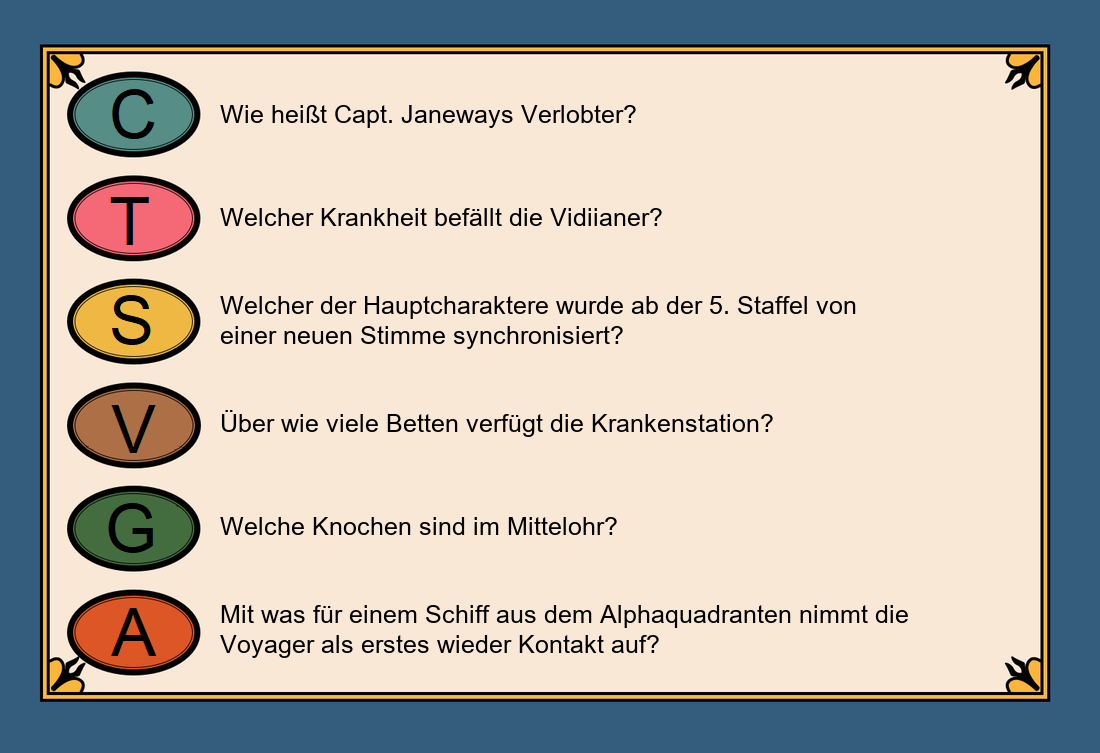
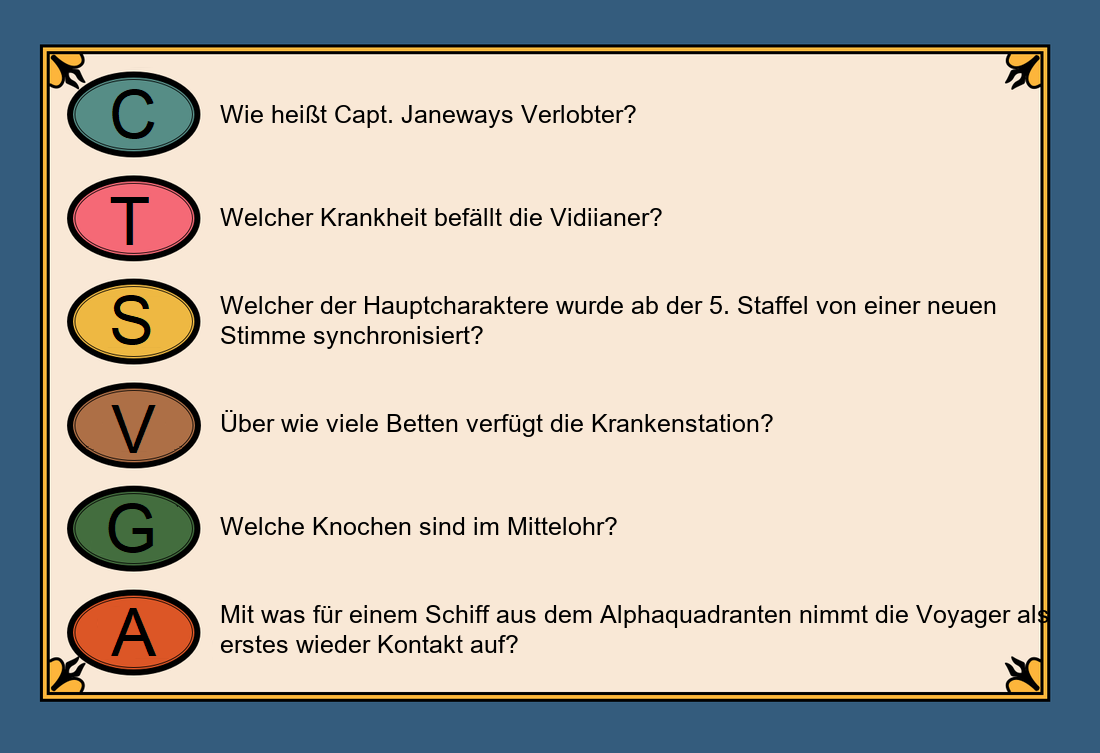
Small corrections, Error handling

diff --git a/database_tools.py b/database_tools.py
@@ -6,6 +6,7 @@
 import sqlite3
 
 import database_statistics
+from constants import QUESTION_MAX_LINE_LENGTH
 
 
 def create_connection(db_file):
@@ -30,8 +31,8 @@ def validate_questions():
             question_id = entry[0]
             question = entry[1]
             any_error = False
-            if len(question) > 120:
-                print "\033[91mError: Question of entry with ID: " + str(question_id) + " is to long! Cards will be ugly! \033[0m" + question
+            if len(question) > 2 * QUESTION_MAX_LINE_LENGTH: #TODO beim Split koennte zweite Zeile laenger als 1 x QUESTION_MAX_LINE_LENGTH werden
+                print "\033[91mError: Question of entry with ID: " + str(question_id) + " is to long! Cards will be ugly! \033[0m" + question + " \033[91mHas length: " + str(len(question)) + "/" + str(2 * QUESTION_MAX_LINE_LENGTH)+"\033[0m" # TODO Variable for max length
                 error_count = error_count + 1
                 any_error = True
             if question[-1] != "?":
@@ -50,7 +51,7 @@ def validate_questions():
         return (warning_count, error_count)
 
 
-def validate_answers():
+def validate_answers(): # TODO  In der Laenge der Antworten das Zitat herausrechnen, bei allen Kategorien ausser T
     print "Validating answer entries..."
     conn = create_connection("python_sqlite.db")
     with conn:
@@ -63,8 +64,8 @@ def validate_answers():
             answer = entry[1]
             answer_cat = entry[2]
             any_error = False
-            if len(answer.split("(")[0]) > 60:
-                print "\033[91mError: Answer of entry with ID: " + str(answer_id) + " is to long! Cards will be ugly! \033[0m" + answer
+            if len(answer.split("(")[0]) > QUESTION_MAX_LINE_LENGTH:
+                print "\033[91mError: Answer of entry with ID: " + str(answer_id) + " is to long! Cards will be ugly! \033[0m" + answer+ " \033[91mHas length: " + str(len(answer)) + "/60\033[0m" # TODO Variable for max length
                 error_count = error_count + 1
                 any_error = True
             if answer_cat != "T" and (

diff --git a/create_cards.py b/create_cards.py
@@ -4,6 +4,8 @@ import shutil
 import sqlite3
 
 from PIL import ImageFont, Image, ImageDraw
+
+from constants import QUESTION_MAX_LINE_LENGTH
 from database_statistics import count_questions, get_categories_from_file
 
 
@@ -68,11 +70,11 @@ def create_cards():
                         question = question_row[
                             1].strip()  # Get question and remove possible whitespace after questionsmark
                         answer = question_row[2]
-                        if len(question) > 60:  # TODO 60 as variable
+                        if len(question) > QUESTION_MAX_LINE_LENGTH:
                             spaces = [m.start() for m in re.finditer(' ', question.strip(" "))]  # Find all spaces
                             print spaces
                             line1_end = max(
-                                [s for s in spaces if s <= 60]) + 1  # Last space which index is less than 60
+                                [s for s in spaces if s <= QUESTION_MAX_LINE_LENGTH]) + 1  # Last space which index is less than 60
                             print line1_end
                             line1 = question[0:line1_end]  # Zeilenumbruch zu machen, ggf sogar 3 Zeilen machen
                             line2 = question[line1_end:len(question)]

diff --git a/trivial_pursuit_creator.py b/trivial_pursuit_creator.py
@@ -11,7 +11,11 @@ raw_input("Press \033[1mENTER\033[0m to start adding new questions from ./questi
           "Already inserted questions will be ignored (The questions text must be unique.)")
 qtb.questions_to_database()
 raw_input("Press \033[1mENTER\033[0m to start validating the database.")
-if dt.validate_questions() == 0 and dt.validate_answers() == 0 and dt.validate_categories() == 0:
+error_count = 0
+error_count += dt.validate_questions()[1]
+error_count += dt.validate_answers()[1]
+error_count += dt.validate_categories()[1]
+if error_count == 0:
     raw_input("Press \033[1mENTER\033[0m to continue and show available statistics on how much cards can be created.")
     dbs.database_statistics()
     raw_input("Press \033[1mENTER\033[0m to create questions cards (front and back) in the ./out folder")
@@ -22,4 +26,5 @@ if dt.validate_questions() == 0 and dt.validate_answers() == 0 and dt.validate_c
     pc.print_cards()
     print "Congratulations. You can find the result in ./prints."
 else:
+    print "There are " + str(error_count) + " Errors which have to be fixed to continue."
     print "Card creation aborted. Please fix the errors in your database and start again."

diff --git a/constants.py b/constants.py
@@ -1,0 +1,1 @@
+QUESTION_MAX_LINE_LENGTH = 70
